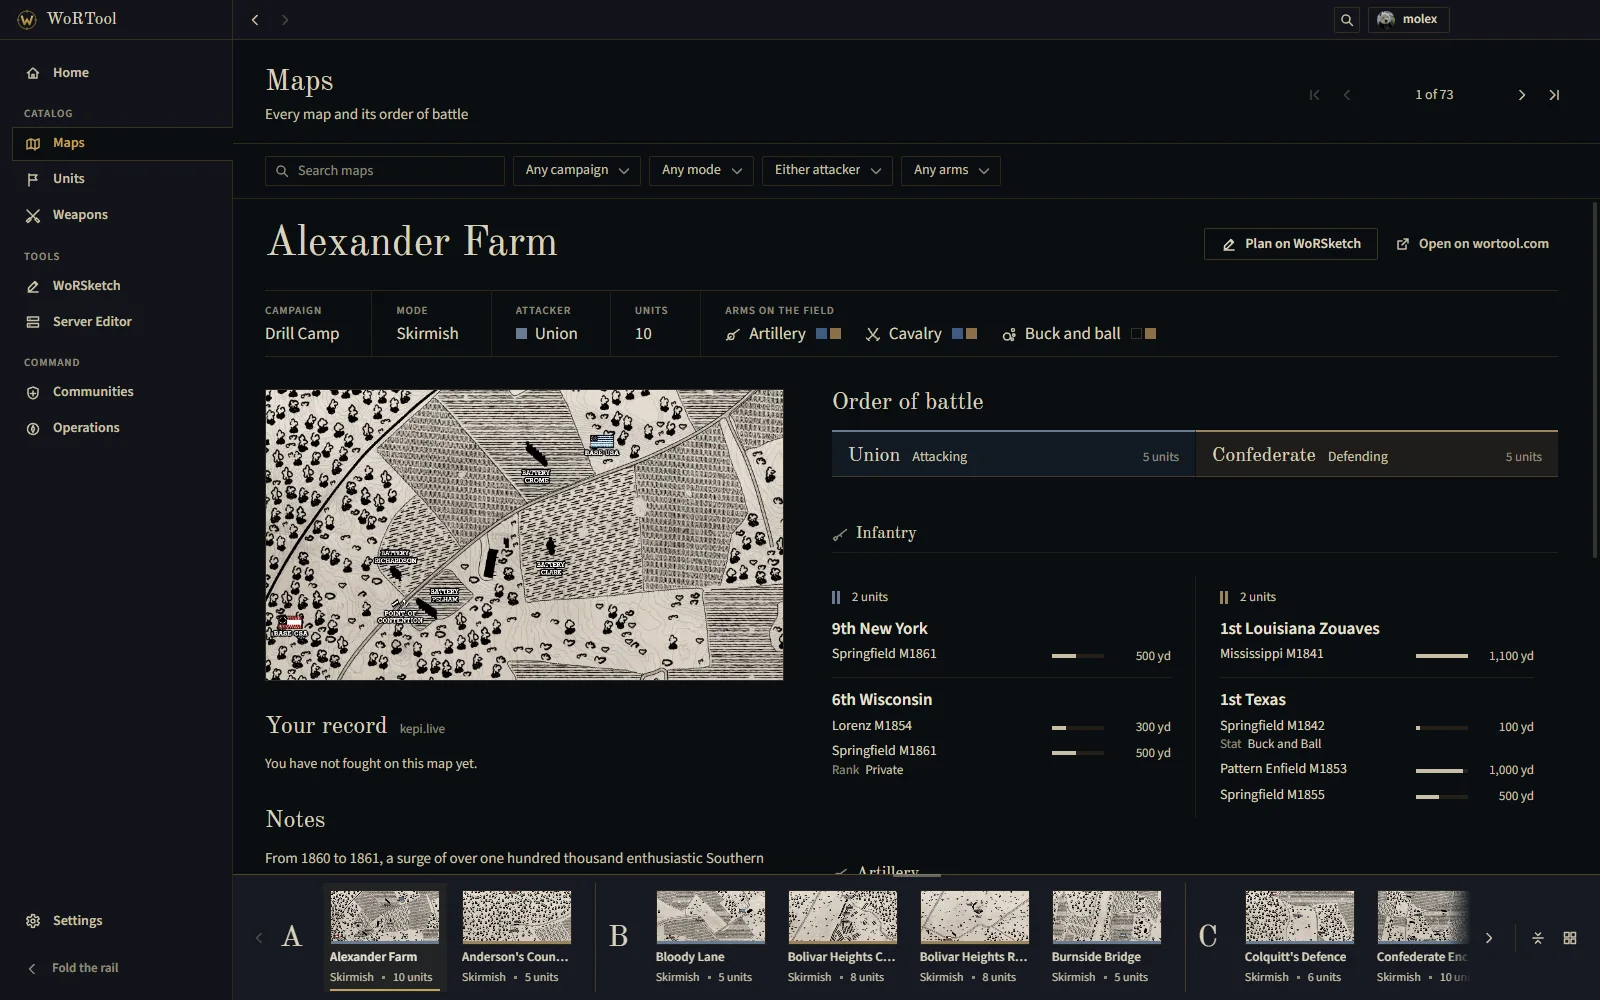
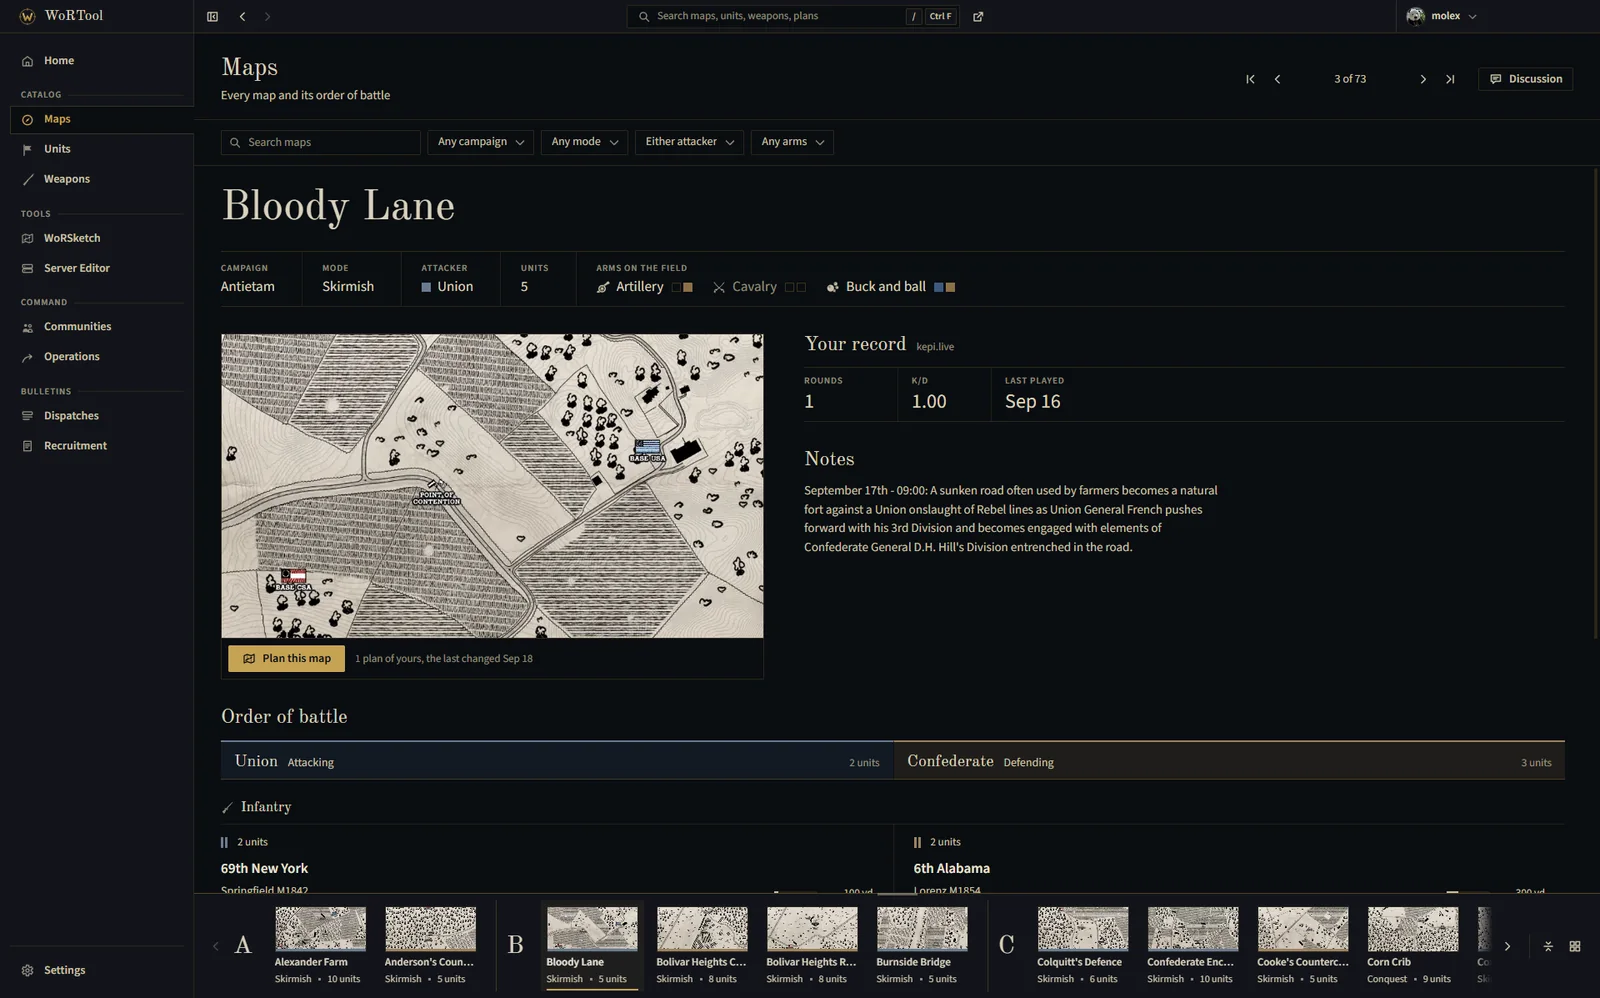
Show the overlay in game and the app's main screens in the gallery

diff --git a/README.md b/README.md
@@ -22,14 +22,22 @@
 
 <br/>
 
-<img alt="Alexander Farm in the catalog: its order of battle, arms on the field and campaign" src=".github/assets/screens/maps.webp" width="820" />
+<a href=".github/assets/screens/overlay.webp"><img alt="War of Rights in the field, with a WoRSketch plan pinned in a see-through window over the game" src=".github/assets/screens/overlay.webp" width="820" /></a>
+<br/>
+<sub>Your plan over the game, live as your officers draw it.</sub>
+
+<br/>
 
 <table>
   <tr>
-    <td align="center"><a href=".github/assets/screens/units.webp"><img src=".github/assets/screens/units.webp" width="190" alt="A combat unit's loadout and the maps it fights on"/><br/><sub>Units</sub></a></td>
-    <td align="center"><a href=".github/assets/screens/weapons.webp"><img src=".github/assets/screens/weapons.webp" width="190" alt="A weapon's range and who carries it"/><br/><sub>Weapons</sub></a></td>
-    <td align="center"><a href=".github/assets/screens/plans.webp"><img src=".github/assets/screens/plans.webp" width="190" alt="WoRSketch plans, with the latest to continue"/><br/><sub>Your plans</sub></a></td>
-    <td align="center"><a href=".github/assets/screens/board.webp"><img src=".github/assets/screens/board.webp" width="190" alt="A WoRSketch plan on Burnside Bridge"/><br/><sub>WoRSketch</sub></a></td>
+    <td align="center" width="33%"><a href=".github/assets/screens/overlay-display.webp"><img src=".github/assets/screens/overlay-display.webp" width="260" alt="The overlay focused over the game with its map display settings open"/></a><br/><sub><b>Any light</b><br/>Night, faded or gray, for you alone</sub></td>
+    <td align="center" width="33%"><a href=".github/assets/screens/worsketch.webp"><img src=".github/assets/screens/worsketch.webp" width="260" alt="A WoRSketch plan of Bloody Lane with both sides placed at their bases"/></a><br/><sub><b>WoRSketch</b><br/>Plan with your unit, live</sub></td>
+    <td align="center" width="33%"><a href=".github/assets/screens/maps.webp"><img src=".github/assets/screens/maps.webp" width="260" alt="Bloody Lane in the catalog: its facts, picture, record, notes and order of battle"/></a><br/><sub><b>The catalog</b><br/>Every map, unit and weapon, offline</sub></td>
+  </tr>
+  <tr>
+    <td align="center" width="33%"><a href=".github/assets/screens/units.webp"><img src=".github/assets/screens/units.webp" width="260" alt="A combat unit's loadout, record and the maps it fights on"/></a><br/><sub><b>Units</b><br/>Loadouts and where they fight</sub></td>
+    <td align="center" width="33%"><a href=".github/assets/screens/recruitment.webp"><img src=".github/assets/screens/recruitment.webp" width="260" alt="Recruitment notices from units taking players, one open beside the list"/></a><br/><sub><b>Recruitment</b><br/>Units looking for players</sub></td>
+    <td align="center" width="33%"><a href=".github/assets/screens/search.webp"><img src=".github/assets/screens/search.webp" width="260" alt="The search open over a map, listing a plan and maps that match"/></a><br/><sub><b>Keyboard first</b><br/>Any page, a keystroke away</sub></td>
   </tr>
 </table>
 
@@ -65,15 +73,15 @@ sudo dnf install ./wortool-*-Linux.rpm
 <table>
   <tr>
     <td width="64" valign="top"><img src=".github/assets/features/catalog.svg" width="48" height="48" alt="" /></td>
-    <td><b>The catalog, offline.</b> Every map, combat unit and weapon, with orders of battle, loadouts and effective ranges. The whole catalog is stored on your computer, and pages you have opened keep working without a connection.</td>
+    <td><b>The catalog, offline.</b> Every map, combat unit and weapon, with orders of battle, loadouts and effective ranges, and a conversation beside each one where you can @ players, units, maps and weapons. The whole catalog is stored on your computer, and pages you have opened keep working without a connection.</td>
   </tr>
   <tr>
     <td width="64" valign="top"><img src=".github/assets/features/planner.svg" width="48" height="48" alt="" /></td>
-    <td><b>WoRSketch.</b> Plan an attack on the game's own maps with your unit: markers, lines, ranges and slides, drawn together live and kept in folders.</td>
+    <td><b>WoRSketch.</b> Plan an attack on the game's own maps with your unit: markers, lines, ranges and slides, drawn together live in one room whether people joined from the app or a browser, and kept in folders.</td>
   </tr>
   <tr>
     <td width="64" valign="top"><img src=".github/assets/features/overlay.svg" width="48" height="48" alt="" /></td>
-    <td><b>A plan over the game.</b> Pin a plan in a see-through window on top of War of Rights, then show, hide, zoom and pan it with <kbd>Ctrl</kbd>+<kbd>Alt</kbd> shortcuts without leaving the game.</td>
+    <td><b>A plan over the game.</b> Pin a plan in a see-through window on top of War of Rights. It follows the plan live as your officers draw, and you show, hide, zoom and pan it with <kbd>Ctrl</kbd>+<kbd>Alt</kbd> shortcuts without leaving the game.</td>
   </tr>
   <tr>
     <td width="64" valign="top"><img src=".github/assets/features/server.svg" width="48" height="48" alt="" /></td>
@@ -81,7 +89,7 @@ sudo dnf install ./wortool-*-Linux.rpm
   </tr>
   <tr>
     <td width="64" valign="top"><img src=".github/assets/features/units.svg" width="48" height="48" alt="" /></td>
-    <td><b>Your units and operations.</b> Your unit's week, roster and ranks, and the operations it takes part in, as wortool.com shows them to you.</td>
+    <td><b>Your units, dispatches and recruitment.</b> Your unit's week, roster and ranks, the operations it takes part in, dispatches, and the recruitment board, as wortool.com shows them to you.</td>
   </tr>
   <tr>
     <td width="64" valign="top"><img src=".github/assets/features/notifications.svg" width="48" height="48" alt="" /></td>
